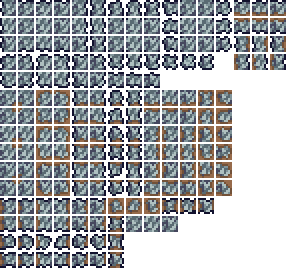
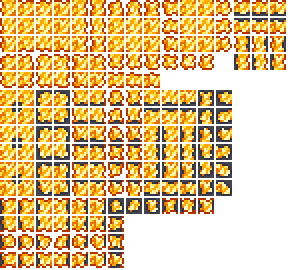
Implement Emberflux & Embersteel Materials

diff --git a/Content/Tiles/EmberfluxOre.cs b/Content/Tiles/EmberfluxOre.cs
@@ -28,23 +28,26 @@ namespace WeDoALittleTrolling.Content.Tiles
 {
     public class EmberfluxOre : ModTile
     {
-        public override void SetStaticDefaults() {
+        public override void SetStaticDefaults()
+        {
             TileID.Sets.Ore[Type] = true;
-            Main.tileSpelunker[Type] = true; // The tile will be affected by spelunker highlighting
-            Main.tileOreFinderPriority[Type] = 410; // Metal Detector value, see https://terraria.wiki.gg/wiki/Metal_Detector
-            Main.tileShine2[Type] = true; // Modifies the draw color slightly.
-            Main.tileShine[Type] = 975; // How often tiny dust appear off this tile. Larger is less frequently
-            Main.tileMergeDirt[Type] = true;
+            TileID.Sets.OreMergesWithMud[Type] = true;
+            TileID.Sets.ChecksForMerge[Type] = true;
+            TileID.Sets.HellSpecial[Type] = true;
+            Main.tileLighted[Type] = true;
+            Main.tileSpelunker[Type] = true;
+            Main.tileShine2[Type] = false;
+            Main.tileShine[Type] = 512;
             Main.tileSolid[Type] = true;
             Main.tileBlockLight[Type] = true;
 
             LocalizedText name = CreateMapEntryName();
-            AddMapEntry(new Color(152, 171, 198), name);
+            AddMapEntry(new Color(235, 111, 0), name);
 
-            DustType = 84;
+            DustType = DustID.Lava;
             HitSound = SoundID.Tink;
             MineResist = 4f;
-            MinPick = 200;
+            MinPick = 180;
         }
     }
 
@@ -53,36 +56,43 @@ namespace WeDoALittleTrolling.Content.Tiles
         public static LocalizedText BlessedWithEmberfluxOreMessage { get; private set; }
         public const float worldSizeDenominator = 4200f;
         public const int minDistanceFromWorldBorder = 100;
-        public const int oreVeinsPerBlessing = 100;
+        public const int oreVeinsPerBlessing = 512;
         public const int minStrength = 4;
         public const int maxStrength = 8;
         public const int minSteps = 4;
         public const int maxSteps = 8;
 
-        public override void SetStaticDefaults() {
+        public override void SetStaticDefaults()
+        {
             BlessedWithEmberfluxOreMessage = Mod.GetLocalization($"WorldGen.{nameof(BlessedWithEmberfluxOreMessage)}");
         }
 
-        public void BlessWorldWithEmberfluxOre() {
-            if (Main.netMode == NetmodeID.MultiplayerClient) {
+        public void BlessWorldWithEmberfluxOre()
+        {
+            if (Main.netMode == NetmodeID.MultiplayerClient)
+            {
                 return;
             }
 
-            ThreadPool.QueueUserWorkItem(_ => {
+            ThreadPool.QueueUserWorkItem(_ =>
+            {
                 // Broadcast a message to notify the user.
-                if (Main.netMode == NetmodeID.SinglePlayer) {
+                if (Main.netMode == NetmodeID.SinglePlayer)
+                {
                     Main.NewText(BlessedWithEmberfluxOreMessage.Value, 50, 255, 130);
                 }
-                else if (Main.netMode == NetmodeID.Server) {
+                else if (Main.netMode == NetmodeID.Server)
+                {
                     ChatHelper.BroadcastChatMessage(BlessedWithEmberfluxOreMessage.ToNetworkText(), new Color(50, 255, 130));
                 }
 
                 int splotches = (int)(oreVeinsPerBlessing * (Main.maxTilesX / worldSizeDenominator));
-                int highestY = (int)Utils.Lerp(Main.rockLayer, Main.UnderworldLayer, 0.5);
-                for (int iteration = 0; iteration < splotches; iteration++) {
-                    // Find a point in the lower half of the rock layer but above the underworld depth.
+                int highestY = (int)Utils.Lerp(Main.UnderworldLayer, Main.maxTilesY, 0.25);
+                for (int iteration = 0; iteration < splotches; iteration++)
+                {
+                    // Find a point in the upper two thirds of the underworld depth.
                     int i = WorldGen.genRand.Next(minDistanceFromWorldBorder, Main.maxTilesX - minDistanceFromWorldBorder);
-                    int j = WorldGen.genRand.Next(highestY, Main.UnderworldLayer);
+                    int j = WorldGen.genRand.Next(highestY, Main.maxTilesY);
 
                     WorldGen.OreRunner(i, j, WorldGen.genRand.Next(minStrength, (maxStrength + 1)), WorldGen.genRand.Next(minSteps, (maxSteps + 1)), (ushort)ModContent.TileType<EmberfluxOre>());
                 }

diff --git a/Content/Items/Placeable/EmbersteelBarItem.cs b/Content/Items/Placeable/EmbersteelBarItem.cs
@@ -1,0 +1,36 @@
+using Terraria;
+using Terraria.GameContent;
+using Terraria.ID;
+using Terraria.ModLoader;
+using WeDoALittleTrolling.Content.Tiles;
+
+namespace WeDoALittleTrolling.Content.Items.Placeable
+{
+    public class EmbersteelBarItem : ModItem
+    {
+        public override void SetStaticDefaults()
+        {
+            Item.ResearchUnlockCount = 25;
+            ItemID.Sets.SortingPriorityMaterials[Item.type] = 61;
+        }
+
+        public override void SetDefaults()
+        {
+            Item.DefaultToPlaceableTile(ModContent.TileType<EmbersteelBar>());
+            Item.width = 30;
+            Item.height = 24;
+            Item.value = Item.sellPrice(gold: 4);
+            Item.material = true;
+            Item.rare = ItemRarityID.LightRed;
+        }
+
+        public override void AddRecipes()
+        {
+            CreateRecipe()
+                .AddIngredient(ModContent.ItemType<EmberfluxOreItem>(), 4)
+                .AddIngredient(ItemID.Meteorite, 4)
+                .AddTile(TileID.AdamantiteForge)
+                .Register();
+        }
+    }
+}

diff --git a/Content/Items/Placeable/EmberfluxOreItem.cs b/Content/Items/Placeable/EmberfluxOreItem.cs
@@ -25,20 +25,20 @@ namespace WeDoALittleTrolling.Content.Items.Placeable
 {
     public class EmberfluxOreItem : ModItem
     {
-        public override void SetStaticDefaults() {
+        public override void SetStaticDefaults()
+        {
             Item.ResearchUnlockCount = 100;
-            ItemID.Sets.SortingPriorityMaterials[Item.type] = 58;
-
-            // This ore can spawn in slime bodies like other pre-boss ores. (copper, tin, iron, etch)
-            // It will drop in amount from 3 to 13.
-            // ItemID.Sets.OreDropsFromSlime[Type] = (3, 13);
+            ItemID.Sets.SortingPriorityMaterials[Item.type] = 60;
         }
 
-        public override void SetDefaults() {
+        public override void SetDefaults()
+        {
             Item.DefaultToPlaceableTile(ModContent.TileType<EmberfluxOre>());
             Item.width = 12;
             Item.height = 12;
-            Item.value = 3000;
+            Item.value = Item.sellPrice(gold: 1);
+            Item.material = true;
+            Item.rare = ItemRarityID.LightRed;
         }
     }
 }

diff --git a/Content/Tiles/EmbersteelBar.cs b/Content/Tiles/EmbersteelBar.cs
@@ -1,0 +1,33 @@
+using Microsoft.Xna.Framework;
+using Terraria;
+using Terraria.ID;
+using Terraria.Localization;
+using Terraria.ModLoader;
+using Terraria.ObjectData;
+
+namespace WeDoALittleTrolling.Content.Tiles
+{
+    public class EmbersteelBar : ModTile
+    {
+        public override void SetStaticDefaults()
+        {
+            Main.tileShine[Type] = 512;
+            Main.tileSolid[Type] = true;
+            Main.tileSolidTop[Type] = true;
+            Main.tileFrameImportant[Type] = true;
+
+            TileObjectData.newTile.CopyFrom(TileObjectData.Style1x1);
+            TileObjectData.newTile.StyleHorizontal = true;
+            TileObjectData.newTile.LavaDeath = false;
+            TileObjectData.addTile(Type);
+
+            LocalizedText name = CreateMapEntryName();
+            AddMapEntry(new Color(235, 111, 0), name);
+
+            DustType = DustID.Lava;
+            HitSound = SoundID.Tink;
+            MineResist = 4f;
+            MinPick = 180;
+        }
+    }
+}

diff --git a/Content/NPCs/GlobalNPC.cs b/Content/NPCs/GlobalNPC.cs
@@ -41,6 +41,7 @@ using WeDoALittleTrolling.Common.ModSystems;
 using WeDoALittleTrolling.Content.Projectiles;
 using WeDoALittleTrolling.Content.Items.Weapons;
 using WeDoALittleTrolling.Content.Items.ProgressionCrystals;
+using WeDoALittleTrolling.Content.Tiles;
 
 namespace WeDoALittleTrolling.Content.NPCs
 {
@@ -1247,6 +1248,15 @@ namespace WeDoALittleTrolling.Content.NPCs
                     Devastated.DevastatePlayer(target);
                 }
             }
+        }
+
+        public override bool PreKill(NPC npc)
+        {
+            if (npc.type == NPCID.QueenSlimeBoss && !NPC.downedQueenSlime)
+            {
+                ModContent.GetInstance<EmberfluxOreSystem>().BlessWorldWithEmberfluxOre();
+            }
+            return base.PreKill(npc);
         }
 
         public override void ModifyGlobalLoot(GlobalLoot globalLoot)
